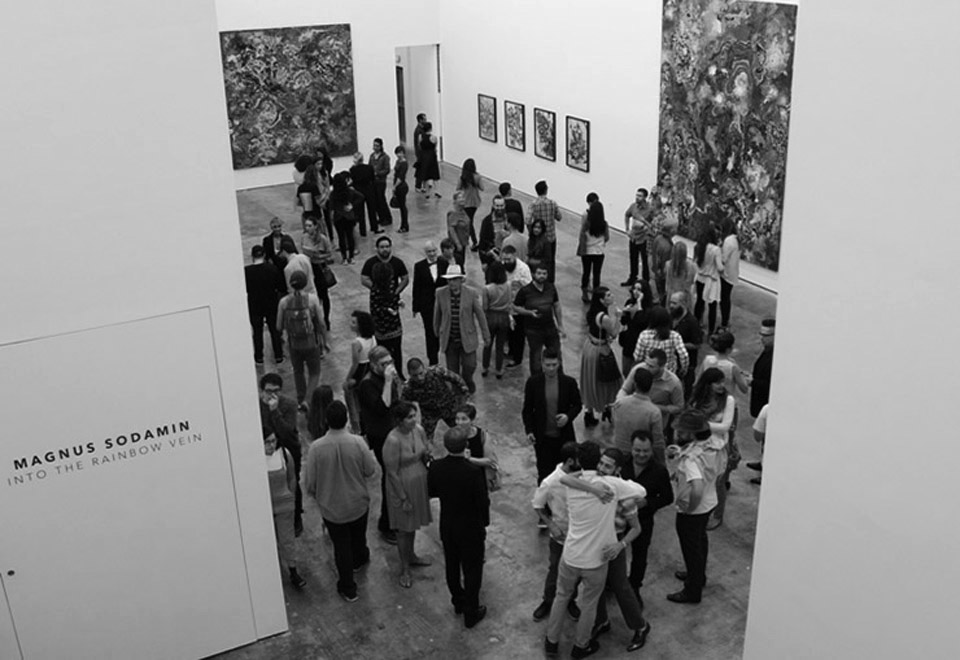
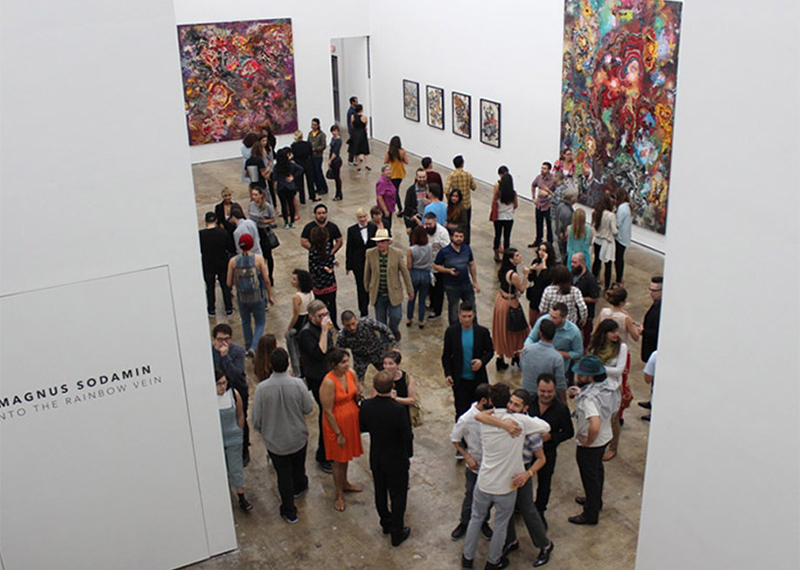
color img

diff --git a/index.html b/index.html
@@ -37,7 +37,7 @@ layout: landing
 							</div>
 						</section>
 						<section class="spotlight">
-							<div class="image"><img src="images/blocksbw.jpg" alt="" /></div><div class="content">
+							<div class="image"><img src="images/blocks.jpg" alt="" /></div><div class="content">
 								<h2>What artists are involved?</h2>
 
 								<p>Commissioner's gallery partner is Primary Projects, which is currently recruiting artists for participation.</p> 
